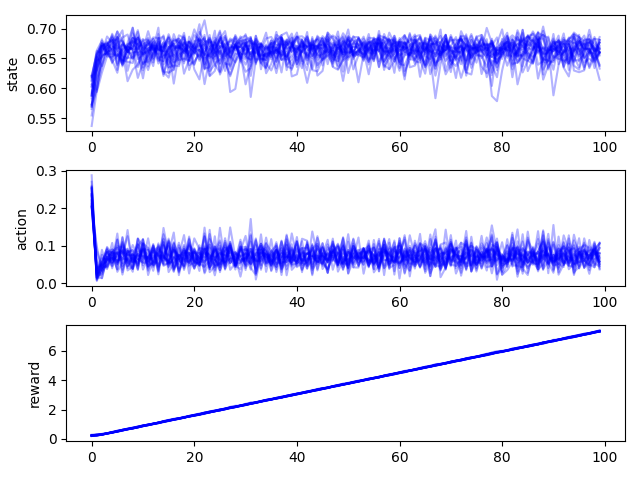
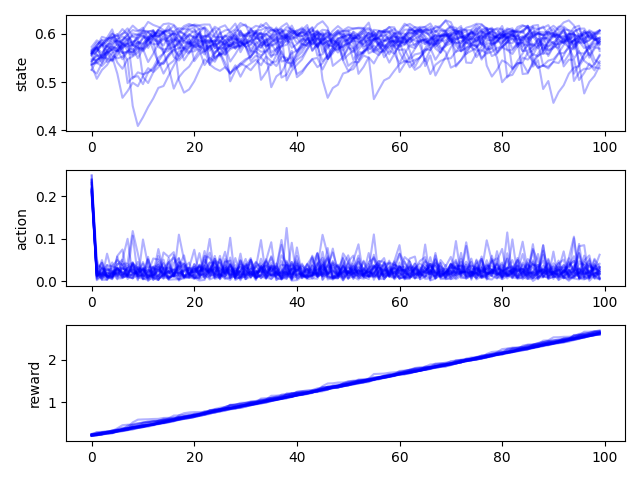
rerun with r=.1

diff --git a/fishing/sb3/plot2.py b/fishing/sb3/plot2.py
@@ -3,7 +3,7 @@ import gym_fishing
 from stable_baselines3 import SAC
 import numpy as np
 
-env = gym.make('fishing-v1')
+env = gym.make('fishing-v1', r = 0.1)
 for i in range(5):
     model = SAC.load(f"models/sb3_sac_"+str(i))
 
